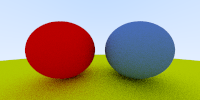
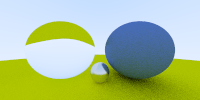
dielectric

diff --git a/rayt.hpp b/rayt.hpp
@@ -29,10 +29,14 @@ namespace rayt{
     const double EPS=1e-6;
     const double INF=std::numeric_limits<double>::max();
     const double GAMMA_FACTOR=2.2;
+    const int MAX_DEPTH=50;
+    const int NUM_THREAD=6;
 
     inline double radians(const double deg){return deg/180*PI;}
     inline double degrees(const double rad){return rad/PI*180;}
     inline double recip(double x){return 1.0/x;}
+    inline double pow2(double x){return x*x;}
+
     inline vec3 random_vector(){
         return vec3(drand48(),drand48(),drand48());
     }
@@ -45,6 +49,23 @@ namespace rayt{
         return p;
     }
 
+    inline vec3 reflect(const vec3& v,const vec3& n){
+        return v-2.0*dot(v,n)*n;
+    }
+
+    inline bool refract(const vec3&  v,const vec3& n,double ni_over_nt,vec3& refracted){
+        vec3 uv=normalize(v);
+        double dt=dot(uv,n);
+        double D=1-pow2(ni_over_nt)*(1-pow2(dt));
+
+        if(D>EPS){
+            refracted=-ni_over_nt*(uv-n*dt)-n*sqrt(D);
+            return true;
+        }
+        else{
+            return false;
+        }
+    }
 
     inline vec3 inverseGamma(const vec3& v,double gammaFactor){
         double recipGammaFactor=recip(gammaFactor);
@@ -196,7 +217,58 @@ namespace rayt{
         vec3 m_albedo;
     };
 
+    class Metal:public Material{
+        public:
+        Metal(const vec3& c,double fuzz):m_albedo(c),m_fuzz(fuzz){}
+
+        bool scatter(const Ray& r,const HitRec& hrec,ScatterRec& srec)const override{
+            vec3 reflected=reflect(normalize(r.direction()),hrec.n);
+            reflected+=m_fuzz*random_in_unit_sphere();
+            srec.ray=Ray(hrec.p,reflected);
+            srec.albedo=m_albedo;
+            return true;
+        }
+
+        private:
+        vec3 m_albedo;
+        double m_fuzz;
+    };
    
+
+    class Dielectric: public Material{
+        public:
+        Dielectric(double ri):m_ri(ri){}
+
+        bool scatter(const Ray& r,const HitRec& hrec,ScatterRec& srec)const override{
+            vec3 outward_normal;
+            vec3 reflected=reflect(r.direction(),hrec.n);
+            double ni_over_nt;
+
+            if(dot(r.direction(),hrec.n)>EPS){
+                outward_normal=-hrec.n;
+                ni_over_nt=m_ri;
+            }
+            else{
+                outward_normal=hrec.n;
+                ni_over_nt=recip(m_ri);
+            }
+
+            srec.albedo=vec3(1);
+
+            vec3 refracted;
+            if(refract(-r.direction(),outward_normal,ni_over_nt,refracted)){
+                srec.ray=Ray(hrec.p,refracted);
+                return true;
+            }
+            else{
+                srec.ray=Ray(hrec.p,reflected);
+                return false;
+            }
+
+        }
+        private:
+        double m_ri;
+    };
 
     class Shape{
         public:
@@ -223,6 +295,15 @@ namespace rayt{
 
             double root=sqrt(D);
             double tmp=(-b-root)/(2*a);
+            if(tmp+EPS<t1&&t0+EPS<tmp){
+                hrec.t=tmp;
+                hrec.p=r.at(hrec.t);
+                hrec.n=normalize(hrec.p-m_center);
+                hrec.mat=m_material;
+                return true;
+            }
+
+            tmp=(-b+root)/(2*a);
             if(tmp+EPS<t1&&t0+EPS<tmp){
                 hrec.t=tmp;
                 hrec.p=r.at(hrec.t);
@@ -284,9 +365,13 @@ namespace rayt{
 
             world->add(std::make_shared<Sphere>(
                 vec3(-0.6,0,-1),0.5,
-                std::make_shared<Lambertian>(vec3(0.8,0.0,0.0))
+                std::make_shared<Dielectric>(1.5)
             ));
             
+            world->add(std::make_shared<Sphere>(
+                vec3(0,-0.35,-0.8),0.15,
+                std::make_shared<Metal>(vec3(0.8,0.8,0.8),0.2)
+            ));
 
             world->add(std::make_shared<Sphere>(
                 vec3(0,-100.5,-1),100,
@@ -296,12 +381,12 @@ namespace rayt{
         }
 
 
-        vec3 color(const rayt::Ray& r,const Shape* world)const{
+        vec3 color(const rayt::Ray& r,const Shape* world,int depth)const{
             HitRec hrec;
-            if(world->hit(r,0,INF,hrec)){
+            if(world->hit(r,EPS,INF,hrec)){
                 ScatterRec srec;
-                if(hrec.mat->scatter(r,hrec,srec)){
-                    return mulPerElem(srec.albedo,color(srec.ray,world));
+                if(depth<MAX_DEPTH&&hrec.mat->scatter(r,hrec,srec)){
+                    return mulPerElem(srec.albedo,color(srec.ray,world,depth+1));
                 }
                 else{
                     return vec3(0);
@@ -319,7 +404,7 @@ namespace rayt{
             build();
             int W=m_image->width();
             int H=m_image->height();
-
+#pragma omp parallel for schedule(dynamic, 1) num_threads(NUM_THREAD)
             for(int y=0;y<H;y++){
                 for(int x=0;x<W;x++){
                     vec3 c(0);
@@ -327,7 +412,7 @@ namespace rayt{
                         double u=(x+drand48())/W;
                         double v=(y+drand48())/H;
                         Ray r=m_camera->getRay(u,v);
-                        c+=color(r,m_world.get());
+                        c+=color(r,m_world.get(),0);
                     }
                     c/=m_samples;
                     m_image->write(x,H-1-y,c.getX(),c.getY(),c.getZ());

diff --git a/rayt.cpp b/rayt.cpp
@@ -1,10 +1,19 @@
 #include "rayt.hpp"
 #include<memory>
 #include<iostream>
-
+#include<chrono>
 
 int main(){
+    std::chrono::system_clock::time_point start,end;
+    start=std::chrono::system_clock::now();
+
     rayt::Scene s(200,100,100);
     s.build();
     s.render();
+
+    end=std::chrono::system_clock::now();
+    double time=static_cast<double>(std::chrono::duration_cast<std::chrono::milliseconds>(end-start).count()/1000.0);
+    printf("%f\n",time);
+
+    return 0;
 }
